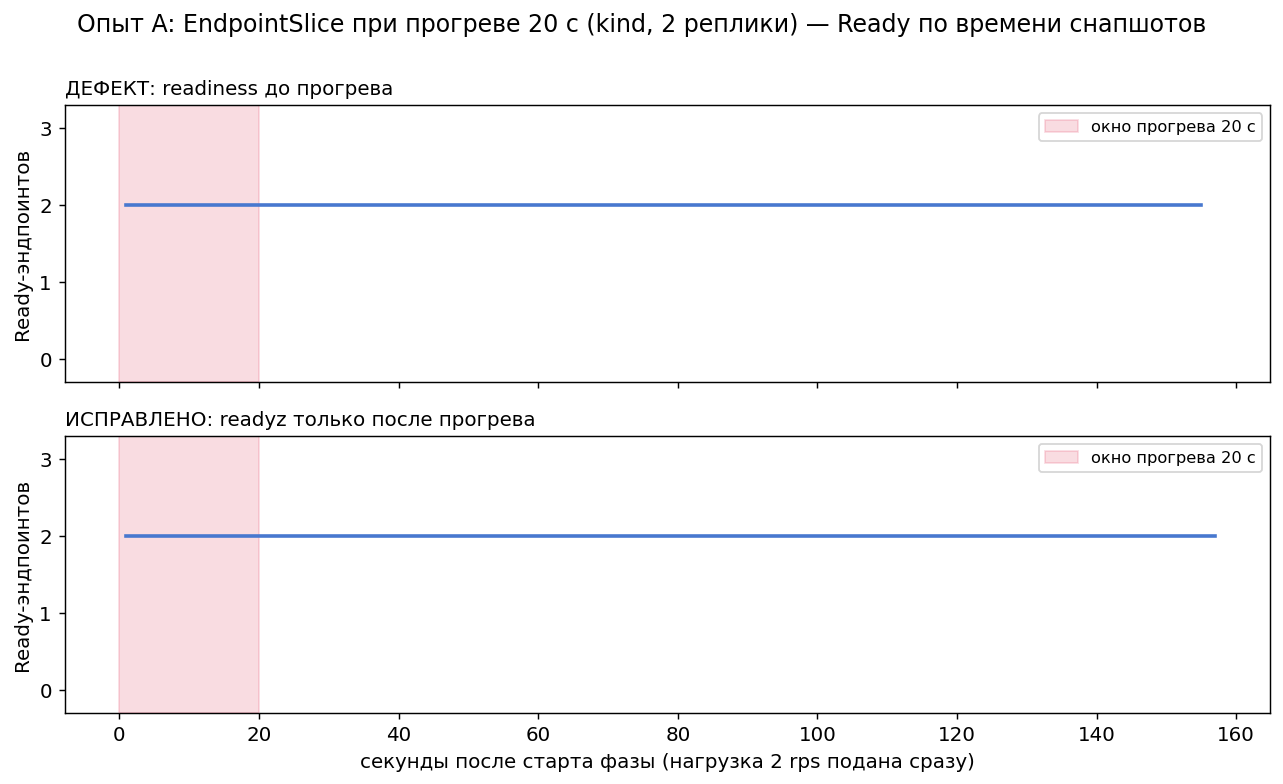
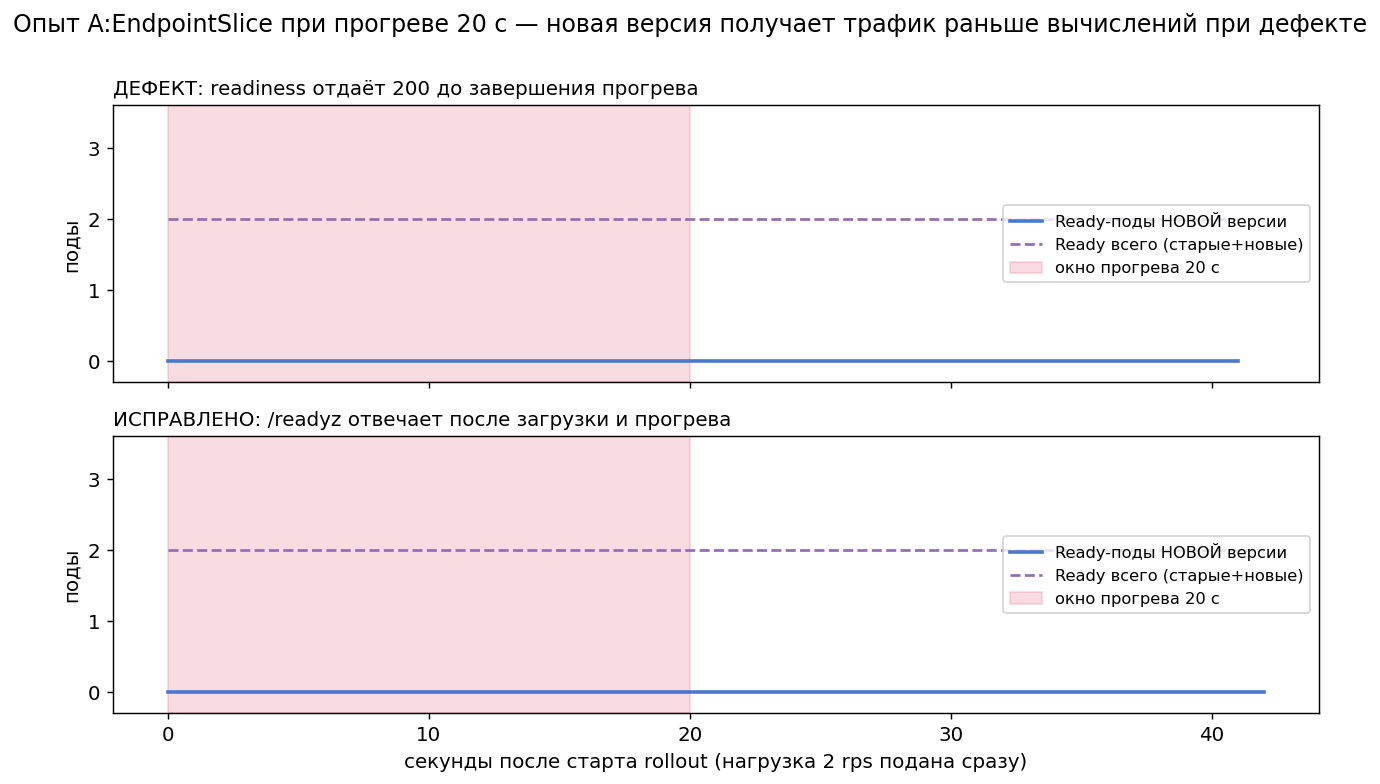
fig-B: pod-суффиксы в подписях, очередь p95; экспорт дашборда в мониторинг

diff --git a/scripts/checks.py b/scripts/checks.py
@@ -31,6 +31,18 @@ def sh(cmd: str, timeout: int = 300) -> str:
     return (r.stdout + r.stderr).strip()
 
 
+def checks_dump() -> str:
+    import subprocess
+    return checks_sh("kubectl get pods -l app=hw11-service -o custom-columns=N:.metadata.name,R:.status.containerStatuses[0].ready")
+
+
+def checks_sh(cmd: str) -> str:
+    import subprocess
+    r = subprocess.run(cmd, shell=True, capture_output=True, text=True,
+                       timeout=60, env=_kubectl_env(), cwd=ROOT)
+    return (r.stdout + r.stderr).strip()
+
+
 def current_rs() -> str:
     name = sh("kubectl get pods -l app=hw11-service "
               "-o jsonpath='{.items[0].metadata.name}'").strip("'")
@@ -173,6 +185,9 @@ async def check_warmup() -> bool:
         await helm_set(wait=False, **{"image.tag": "v4"},
                        **{"warm.seconds": 12, "warm.readyBeforeWarmup": "true"})
         t_defect = await new_rs_ready(old_rs, 60, warm=12)
+        if t_defect is None:
+            print("  [диагностика] old_rs:", old_rs)
+            print(checks_dump())
         r = await do(c, "POST", "/generate", json={"prompt": "дефект-проверка"})
         warm_before_warm_done = t_defect is not None and t_defect < 12
         print(f"  RED дефект: новая реплика Ready через {t_defect} c после "
@@ -269,7 +284,8 @@ async def check_interruptions() -> bool:
             await task
         except (asyncio.CancelledError, httpx.HTTPError):
             pass
-        await asyncio.sleep(10)           # метрики доехали до Prometheus
+        await c.aclose()  # рвём TCP сразу: иначе keep-alive вернёт соединение в пул без разрыва
+        await asyncio.sleep(20)           # метрики доехали до Prometheus
         ensure_prom_forward()
         after = await prom_query(
             'sum(sim_requests_total{outcome="interrupted"}) or vector(0)')

diff --git a/scripts/make_figures.py b/scripts/make_figures.py
@@ -85,17 +85,17 @@ def fig_b_pods() -> None:
         by_pod.setdefault(r.get("pod"), []).append(r)
     pods = sorted(by_pod)
     ttfc = [percentile([r["ttfc_seconds"] for r in by_pod[p]], 50) for p in pods]
-    queue = [percentile([r["queue_wait_seconds"] for r in by_pod[p]], 50) for p in pods]
+    queue = [percentile([r["queue_wait_seconds"] for r in by_pod[p]], 95) for p in pods]
     share = [100 * len(by_pod[p]) / len(ok) for p in pods]
     x = range(len(pods))
     fig, (a1, a2) = plt.subplots(1, 2, figsize=(11, 4.2))
     a1.bar([i - .2 for i in x], ttfc, .4, label="TTFC p50, с")
-    a1.bar([i + .2 for i in x], queue, .4, label="очередь p50, с")
-    a1.set_xticks(list(x), [p.split("-")[-2][-4:] + "…" for p in pods])
+    a1.bar([i + .2 for i in x], queue, .4, label="очередь p95, с")
+    a1.set_xticks(list(x), [p.split("-")[-1] for p in pods])
     a1.set_ylabel("секунды"); a1.legend()
     a1.set_title("Задержка и очередь по реплике\n(hot80, обычный Service, прогон 1)")
     a2.bar(list(x), share, color=["crimson" if s > 60 else "#4878cf" for s in share])
-    a2.set_xticks(list(x), [p.split("-")[-2][-4:] + "…" for p in pods])
+    a2.set_xticks(list(x), [p.split("-")[-1] for p in pods])
     a2.set_ylabel("% запросов")
     a2.set_title("Распределение запросов по репликам\n(равномерно = 50%)")
     fig.tight_layout()
